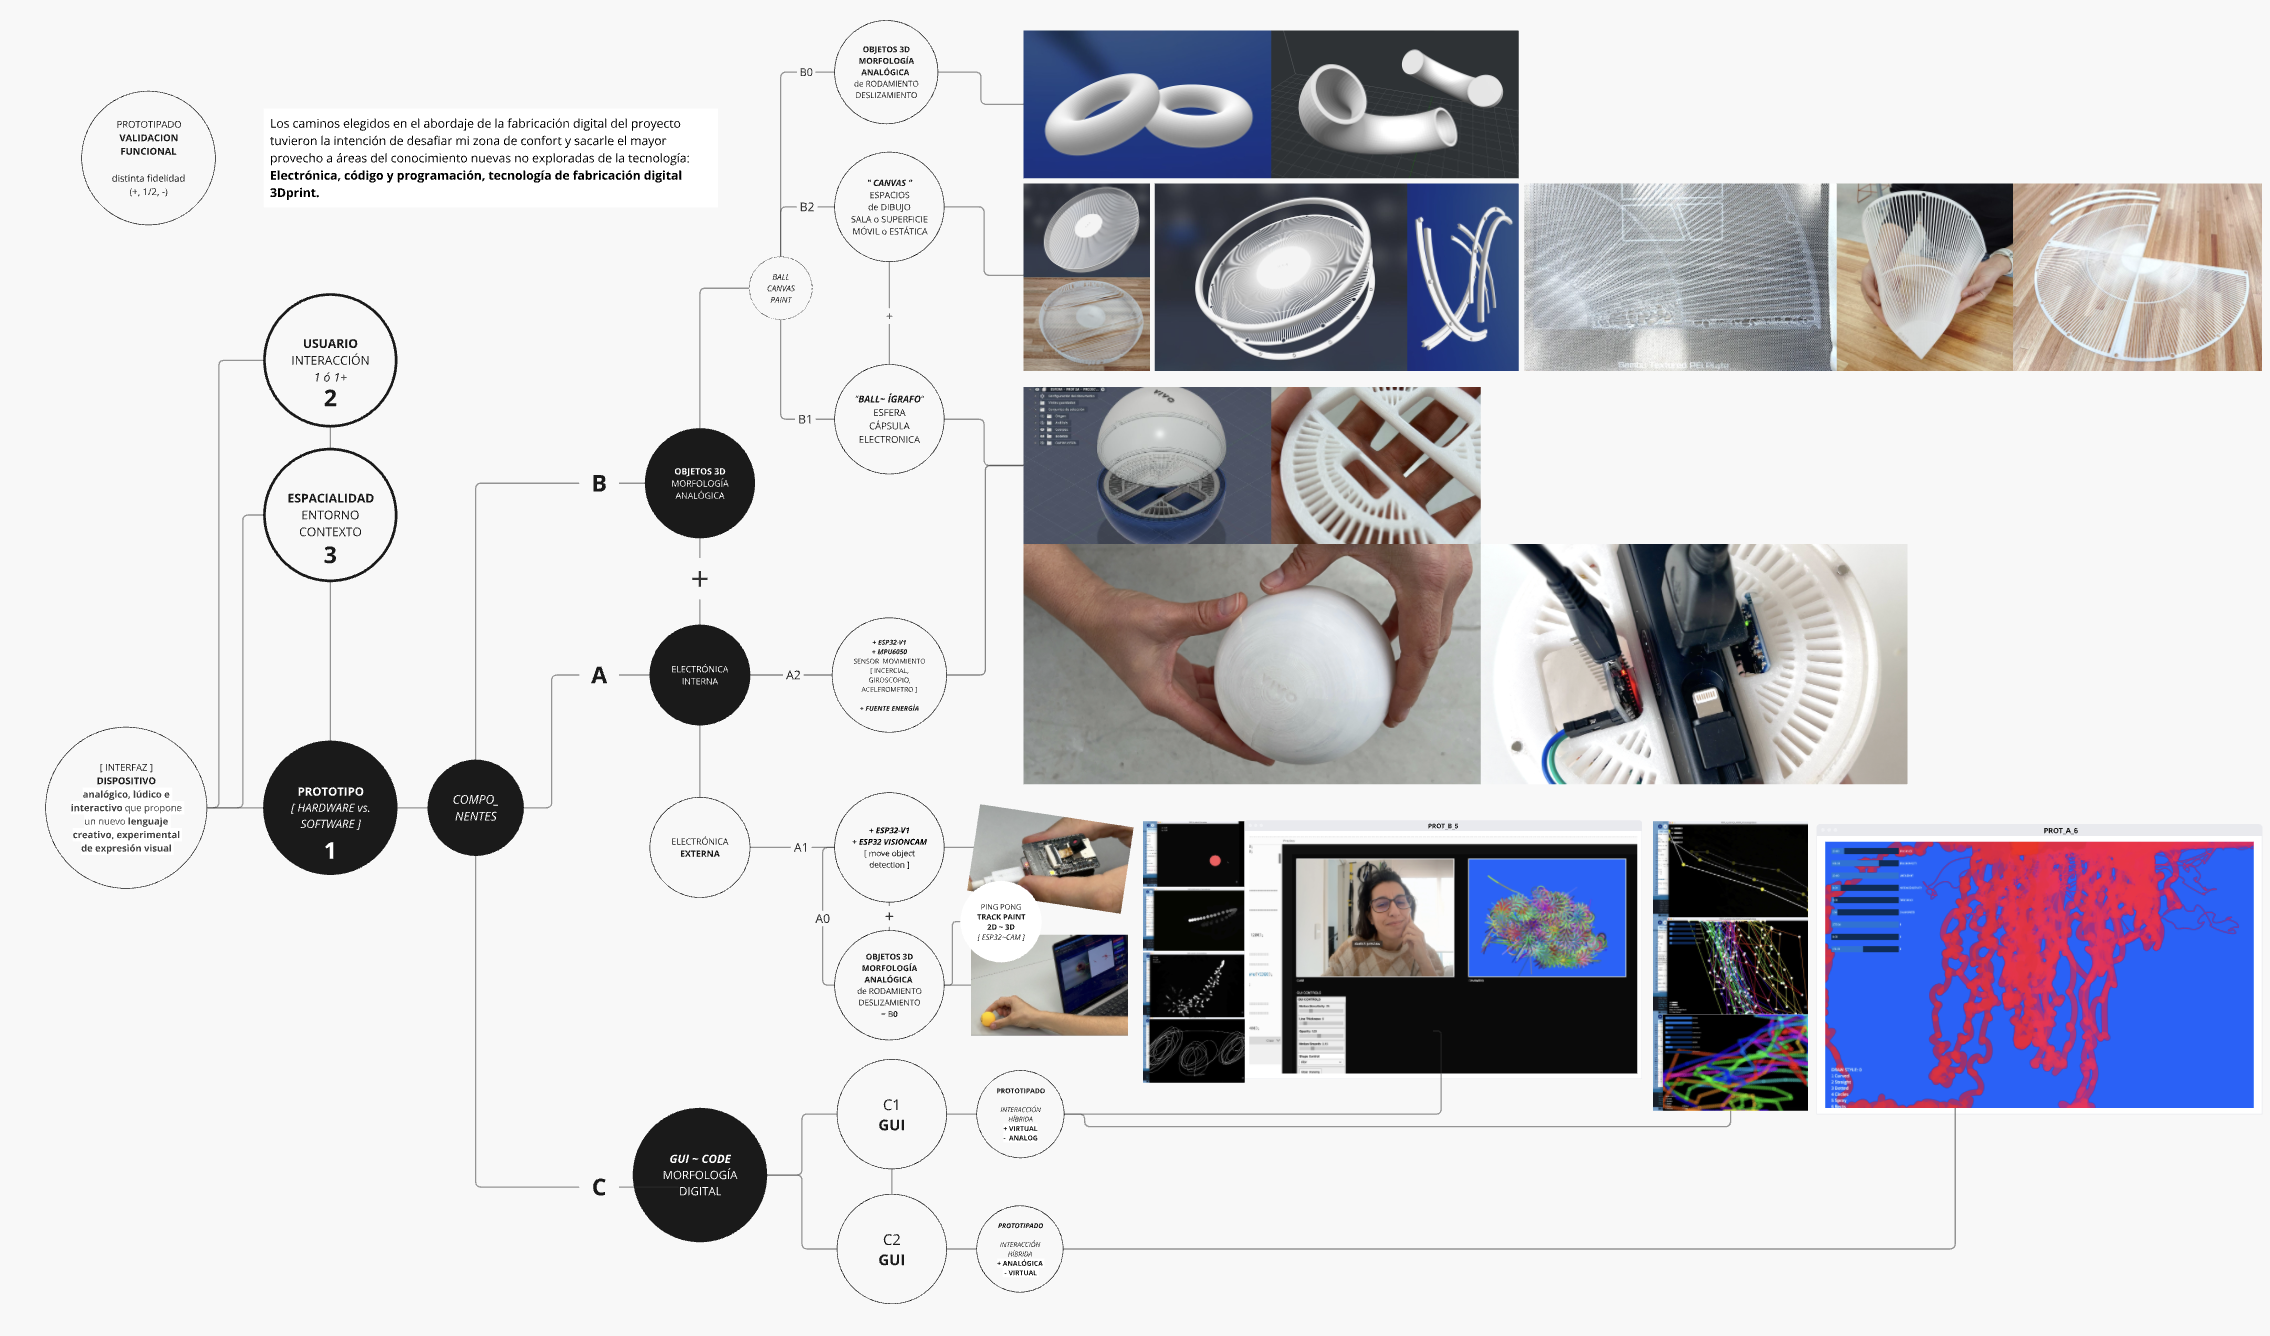
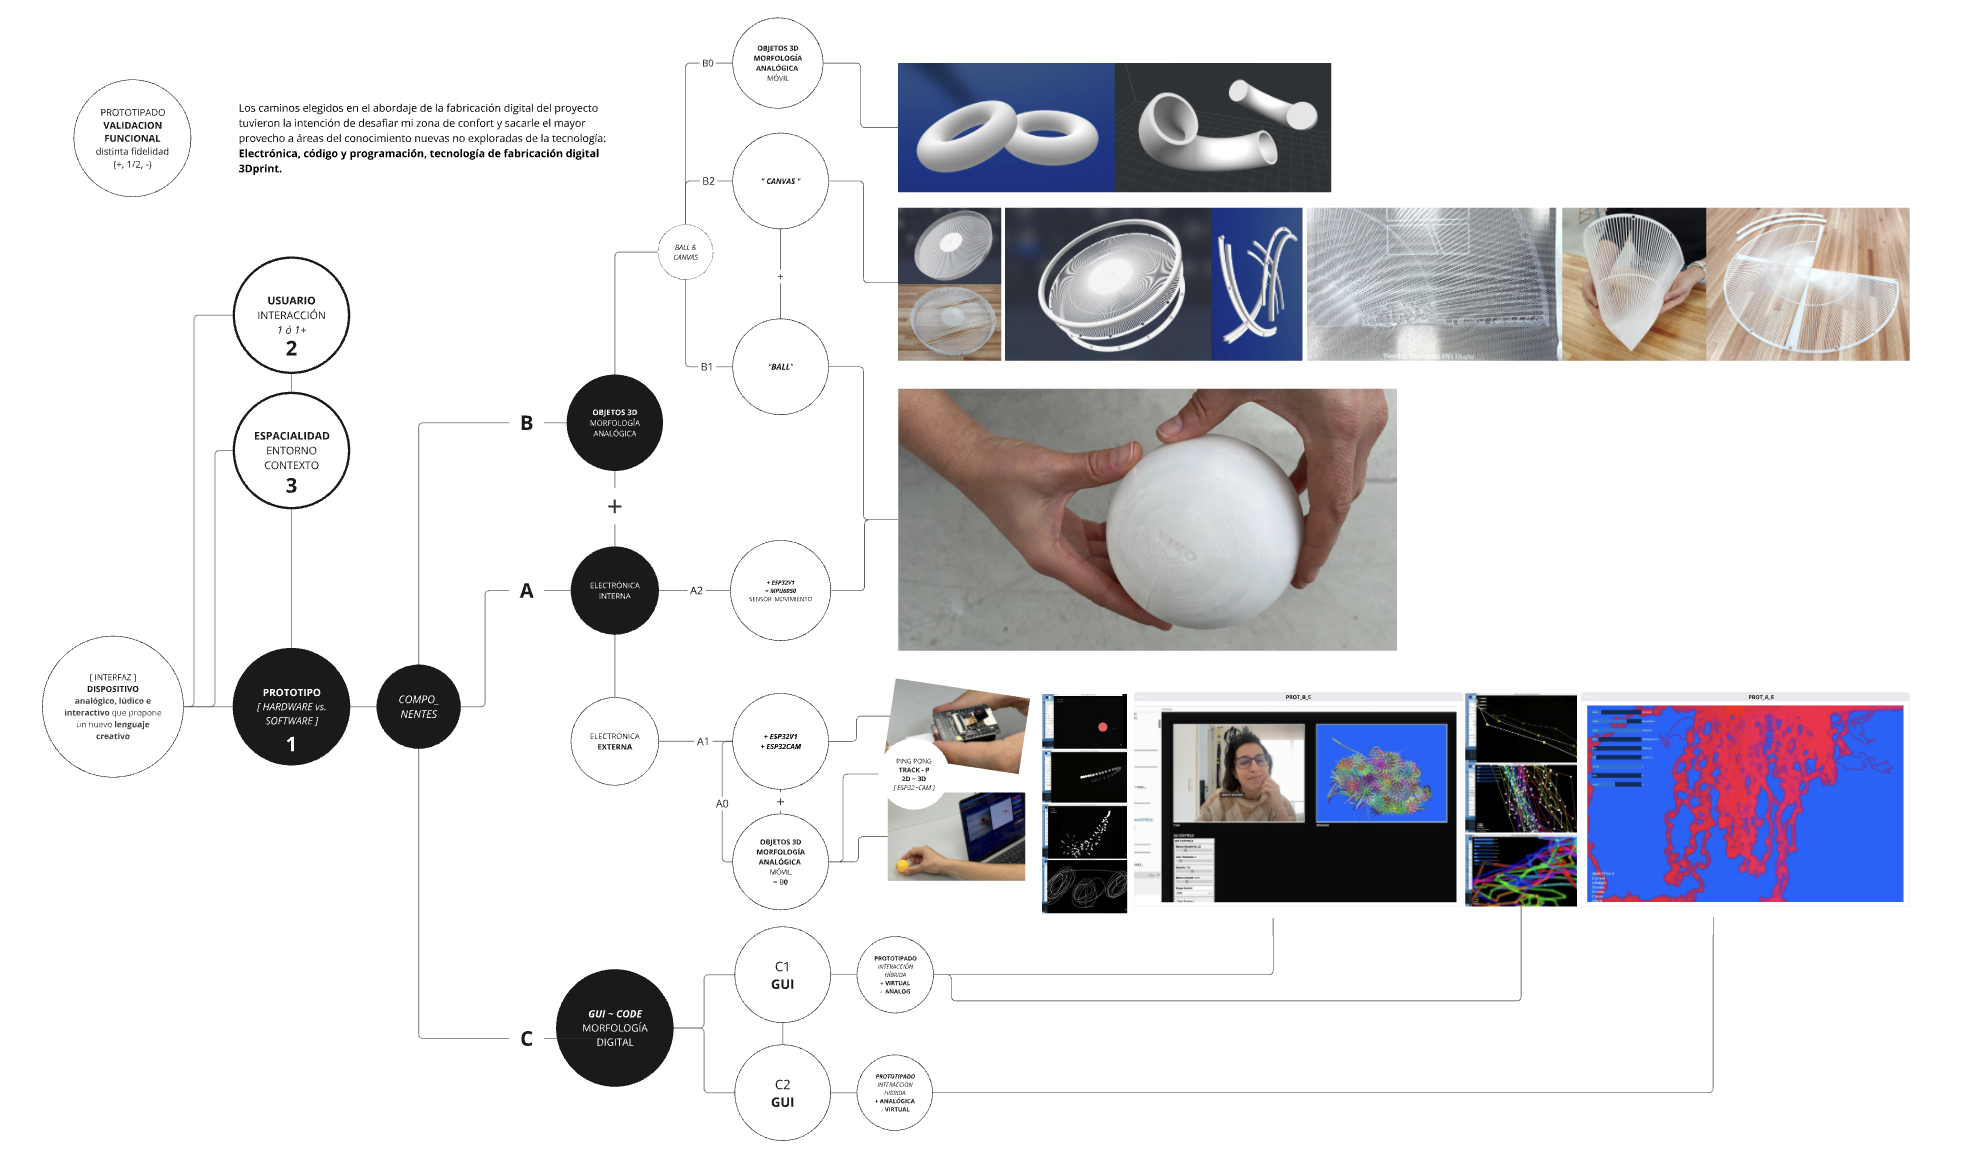
PI_images change

diff --git a/docs/proyecto/Presentación.md b/docs/proyecto/Presentación.md
@@ -11,7 +11,7 @@ hide:
 <br>
 <br>
 
-![](../images/PI/ENTREGA_PFI_ANDRE_LORIETO_2026.gif) 
+![](../images/PI/ENTREGA_PFI_ANDRE_LORIETO_2026.gi) 
 
 <p></p>
 _____
